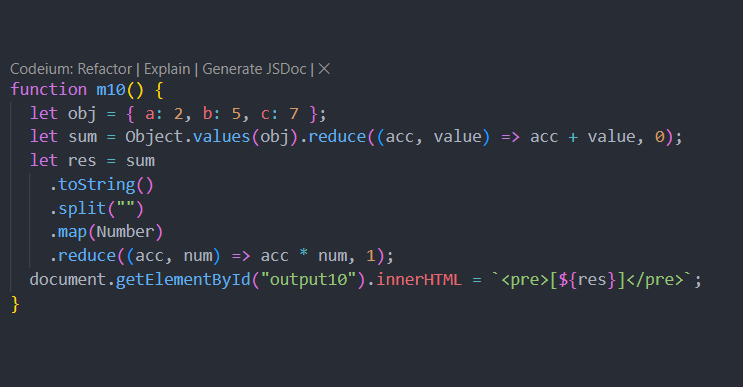
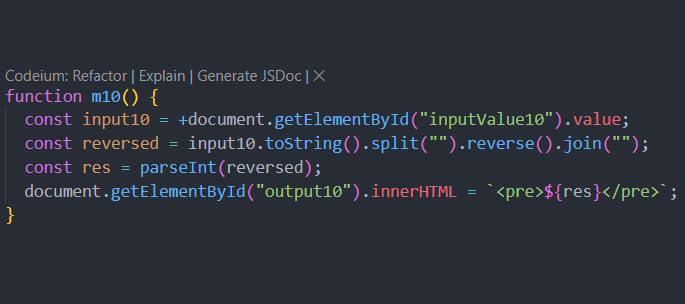
tnth done

diff --git a/app.js b/app.js
@@ -127,8 +127,6 @@ function m7() {
   document.getElementById("output7").innerHTML = `<pre>[${res}]</pre>`;
 }
 
-
-
 function m8() {
   let obj = { a: 2, b: 5, c: 7 };
   let sum = Object.values(obj).reduce((acc, value) => acc + value, 0);
@@ -140,41 +138,28 @@ function m8() {
   document.getElementById("output8").innerHTML = `<pre>[${res}]</pre>`;
 }
 
-
-
-
 function m9() {
   const input9 = +document.getElementById("inputValue9").value;
   const digitCount = input9.toString().length;
-  document.getElementById("output9").innerHTML = 
-  `<pre>Son Uzunligi: ${digitCount}</pre>`;
+  document.getElementById(
+    "output9"
+  ).innerHTML = `<pre>Son Uzunligi: ${digitCount}</pre>`;
 }
-
-
-
-
-
-
-
-
-
-
-
 
 
 
 
 
 function m10() {
-  let obj = { a: 2, b: 5, c: 7 };
-  let sum = Object.values(obj).reduce((acc, value) => acc + value, 0);
-  let res = sum
-    .toString()
-    .split("")
-    .map(Number)
-    .reduce((acc, num) => acc * num, 1);
-  document.getElementById("output10").innerHTML = `<pre>[${res}]</pre>`;
+  const input10 = +document.getElementById("inputValue10").value;
+  const reversed = input10.toString().split("").reverse().join("");
+  const res = parseInt(reversed);
+  document.getElementById("output10").innerHTML = `<pre>${res}</pre>`;
 }
+
+
+
+
 
 
 

diff --git a/index.html b/index.html
@@ -310,6 +310,7 @@
             Berilgan sonni teskari qiladigan function yarating.
           </h2>
           <br />
+          <input type="text" id="inputValue10" placeholder="Ex: 1234" />
           <button class="button-85" role="button" onclick="m10()">
             Hisoblash
           </button>
